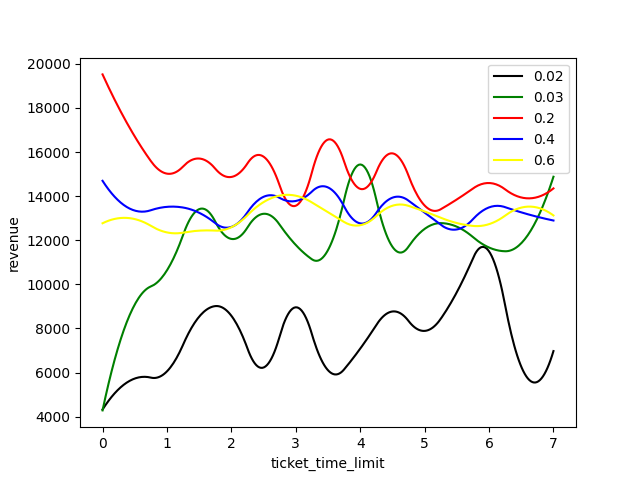
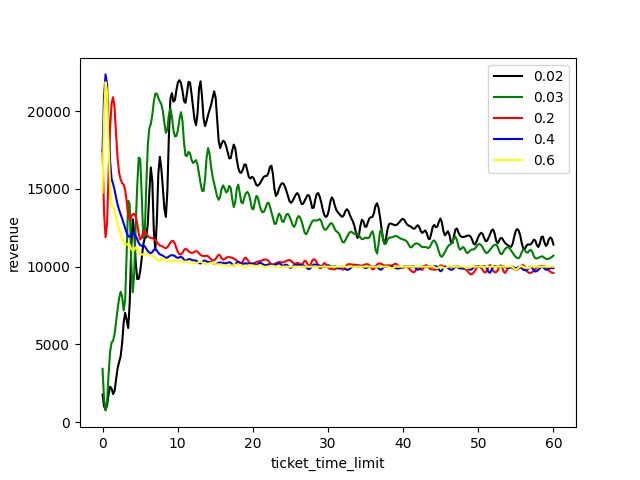
feat: change arrival interval

diff --git a/flight.py b/flight.py
@@ -47,7 +47,10 @@ class Flight:
     # Define the function to simulate passenger bookings
     def passenger_arrivals(self):
         while True:
-            yield self.env.timeout(int(np.random.exponential(scale=Param.pax_inter_time)))
+            if Param.ticket_time_limit != 0:
+                yield self.env.timeout(np.random.exponential(scale=Param.pax_inter_time / Param.ticket_time_limit))
+            else:
+                yield self.env.timeout(np.random.exponential(scale=Param.pax_inter_time))
             booking_price = self.ticket_price
             if self.log == "DEBUG":
                 print(f"Passenger of flight {self.id} arrived at day {self.env.now} ")
@@ -70,7 +73,7 @@ class Flight:
     # Handle ttl
     def ticket_time_limit(self, booking_price):
         try:
-            yield self.env.timeout(Param.ticket_time_limit)
+            yield self.env.timeout(np.random.exponential(scale=Param.decision_inter_time))
             self.bookings -= 1
             self.revenue_hold_on -= booking_price
             if self.log == "DEBUG":

diff --git a/plot.py b/plot.py
@@ -13,7 +13,7 @@ class AirlineRmPlotting:
             Param.confirm_prob = confirm_prob_range[index]
             revenues = list()
             # Simulate with different ttl
-            for i in np.arange(0, 7.5, 0.5):
+            for i in np.arange(0, 60.5, 0.5):
                 Param.ticket_time_limit = i
                 simulation = Sim(routes, "INFO")
                 simulation.run(num_days=Param.num_days)
@@ -22,8 +22,8 @@ class AirlineRmPlotting:
                     revenue += f.revenue_confirmed
                 revenues.append(revenue)
             # Make the curve more smooth
-            spl = make_interp_spline(np.arange(0, 7.5, 0.5), revenues, k=2)
-            x_smooth = np.linspace(0, 7, 300)
+            spl = make_interp_spline(np.arange(0, 60.5, 0.5), revenues, k=2)
+            x_smooth = np.linspace(0, 60, 300)
             y_smooth = spl(x_smooth)
             
             plt.plot(x_smooth, y_smooth, color=confirm_prob_color[index], label=Param.confirm_prob)
